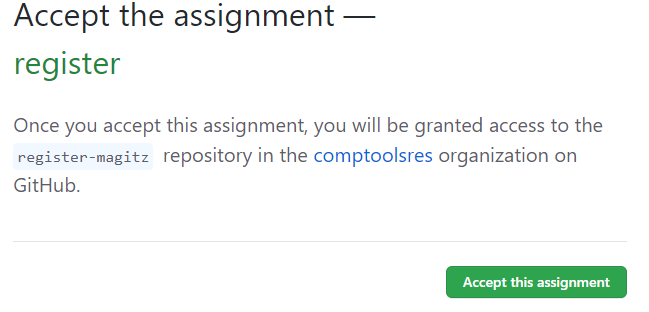
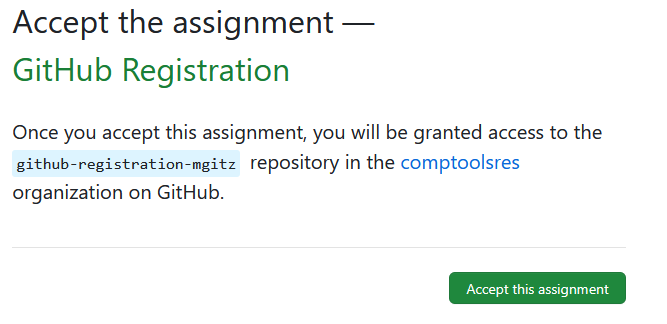
2026 updates

diff --git a/github_account.md b/github_account.md
@@ -6,26 +6,24 @@ permalink: github_account.html
 toc: false
 ---
 
-## What is Git? <i class="fa fa-git-square fa-2x">
+## What is <i class="fa fa-git-square fa-2x">?
 
 Git is a version-control tool that has become increasingly popular among coders for facilitating not only version tracking but also collaboration and code distribution.
 
 You do not need to have Git installed on your own computer, but you may want to. It is freely available from: [https://git-scm.com/](https://git-scm.com/).
 
-## What is github.com
+## What is GitHub.com
 
-{% include image.html file='github_logo.jpg' alt="github.com social coding logo" position="right" max-width=200 %}[github.com](https://github.com) is a service that allows you to host git repositories (sets of files being tracked by git) on a publicly accessible website, further promoting collaboration, sharing, and code distribution. Many applications, data, and more are distributed via GitHub.com, and we will use GitHub.com to explore using git for version control and collaboration. Indeed, the page you are reading now is part of a GitHub repository!   
+{% include image.html file='github_logo.jpg' alt="github.com social coding logo" position="right" max-width=200 %}[GitHub.com](https://github.com) is a service that allows you to host git repositories (sets of files being tracked by git) on a publicly accessible website, further promoting collaboration, sharing, and code distribution. Many applications, data, and more are distributed via GitHub.com, and we will use GitHub.com to explore using git for version control and collaboration. Indeed, the page you are reading now is part of a GitHub repository!   
 
+## Register for your GitHub.com account
 
-## Register for your github.com account
+* Go to [GitHub.com](https://github.com) and sign up for an account--please use your `@ufl.edu` email address when signing up, which will allow you to get an academic account.
 
-* Go to [github.com](https://github.com) and sign up for an account--please use your `@ufl.edu` email address when signing up, which will allow you to get an academic account.
+     {% include note.html content="GitHub.com frequently updates their pricing model. **By using your UF email and registering for GitHub Education (see below), you will gain free access to GitHub Copilot**, an AI coding assistant. We will use this a fair bit in the course, so I encourage you to do this.<br><br>If you already have an account, but used a non-UF email, you can update your email [here](https://github.com/settings/emails)<br><br>
+ Non-UF students can use whatever email is best for them" %}
 
- {% include note.html content="github.com frequently updates their pricing model. **By using your UF email and registering for GitHub Education (see below), you will gain free access to GitHub Copilot**, an AI pair programmer. We will use this a fair bit in the course, so I encourage you to do this.<br><br>If you already have an account, but used a non-UF email, you can update your email [here](https://github.com/settings/emails)<br><br>
- Non-UF students can use whatever email is best for them" %} 
-
-
- {% include tip.html content="You should never need to pay anything or enter any credit card information for anything in this course!" %}
+ {% include tip.html content="You should **never** need to pay anything or enter any credit card information for anything in this course!" %}
 
 * Complete any email verification GitHub sends to you.
 
@@ -35,41 +33,47 @@ You do not need to have Git installed on your own computer, but you may want to.
 
 ## The assignment
 
- {% include tip.html content="**Why do I need this assignment?** We will use GitHub a lot in this course. I need to know your GitHub username to add you to the group that can launch GitHub Codespaces in the course organization. GitHub provides a limited number of minutes for free for the course, so I need to limit who can launch Codespaces to make sure we have enough resources as we get started." %}
+### Accepting the Assignment
 
+ {% include tip.html content="**Why do I need this assignment?** We will use GitHub a lot in this course. I need to know your GitHub username to help with grading." %}
 
-* For this assignment, we will use GitHub Classroom. Click on this link to access the assignment: [https://classroom.github.com/a/oiWbMVZq](https://classroom.github.com/a/oiWbMVZq) (**This link is for the Fall 2024 semester of the course at UF**)
+* For this assignment, we will use GitHub Classroom. Click on this link to access the assignment: [https://classroom.github.com/a/tZM5f8lt](https://classroom.github.com/a/tZM5f8lt) (**This link is for the Fall 2026 semester of the course at UF**)
 
 * **Authorize GitHub Classroom to access your account.**
 
- {% include image.html file='git_authorize.png' alt="Screenshot of authorizing github classroom to access account" position="center" max-width=350 %}
+   {% include image.html file='git_authorize.png' alt="Screenshot of authorizing github classroom to access account" position="center" max-width=350 %}
 
-* You will be prompted to pair your GitHub account with the classroom roster by selecting your last name from the list. If your name isn't in the list, click the Skip button, and we'll sort it out later...
+* **Click the "Accept this assignment" button**.
 
-* **Click the "Accept this assignment" button** (note that the assignment is called "GitHub Registration" this year vs the screenshot that says "register" in green).
- 
- {% include image.html file='git_accept_assignment.png' alt="Screenshot of Accept this assignment screen" position="center" max-width=350 %}
+    {% include image.html file='git_accept_assignment.png' alt="Screenshot of Accept this assignment screen" position="center" max-width=350 %}
 
-* GitHub will set up your assignment, which may take a few minutes.
+* GitHub will set up your assignment, but then give you an error saying that "You no longer have access to your assignment repository." Sorry about that, not terribly user friendly, but seems to be how GitHub works.
 
-* You should get a screen that says "You are ready to go!"
+    {% include image.html file='git_no_access.png' alt="Screenshot of screen showing that You no longer have access to your assignment repository" position="center" max-width=350 %}
 
- {% include image.html file='git_ready_to_go.png' alt="Screenshot of You're ready to go!" position="center" max-width=400 %}
+    * **Check your email**. There should be a message from github-classroom[bot], which the title "github-classroom invited you to comptoolsres/github-registration-..." with your GitHub username.
+    * That email has a "View invitation" button to accept your invitation to collaborate on the repository.
 
-* There is a link on that page to your assignment, **click that and follow the directions to edit the README.md file and add your name.**
+       {% include image.html file='git-accept-invitation.png' alt="Screenshot of screen showing that You no longer have access to your assignment repository" position="center" max-width=350 %}
+
+* For future assignments, you shouldn't need to do that. After clicking the Accept button for the assignment, you should get a screen that says "You are ready to go!"
+
+    {% include image.html file='git_ready_to_go.png' alt="Screenshot of You're ready to go!" position="center" max-width=400 %}
+
+### Edit the README.md file
 
 * You will click the <i class="fas fa-pencil-alt"></i> icon and find the text that says: 
 
- ```
- ## Add your name below:
-  
- Your name:
- ```
- 
+   ```text
+   ## Add your name below:
+     
+   Your name:
+   ```
+
 * **Add your name and click the green "Commit changes..." button**.
 * In the pop-up, you can leave the default message and the "Commit directly to the main branch" option selected.
 
- {% include image.html file='git_commit_changes.png' alt="Screenshot of the Commit changes button" position="center" max-width=350 %}
+    {% include image.html file='git_commit_changes.png' alt="Screenshot of the Commit changes button" position="center" max-width=350 %}
 
 * **Click the "Commit changes" button.**
 
@@ -77,22 +81,7 @@ You do not need to have Git installed on your own computer, but you may want to.
 
 * This is listed in Canvas at the GitHub Account Assignment.
 * This assignment will count as **5 points of your participation grade**.
-* **Paste the URL of your repository or type a note that you have done the assignment, adding your GitHub username.**
+* **Paste the URL of your repository.**
 * Submit the assignment, and I'll grade it.
-
-
-## After the assignment
-
-* After you submit the assignment, I will invite you to join the @comptoolsres organization. You will get an email from GitHub.com that looks something like this:
-
- {% include image.html file='github_invite_email.png' alt="Screenshot of the email invitation to join the GitHub organization @comptoolsres" position="center" max-width=300 %}
-
-* The link in the email will take you to a page to accept the invitation.
-* Please **do not** check the "Ask for a GitHub Copilot seat (optional)" checkbox. There are no seats to provide. You need to get access to GitHub Copilot via the educational discount noted above.
-* **Click the "Join Computational Tools for Research" button.**
-
-
- {% include image.html file='github_invite.png' alt="Screenshot of the page to join the GitHub organization @comptoolsres" position="center" max-width=400 %}
-
 
 **Now you should be ready for the next class! 🎉**
